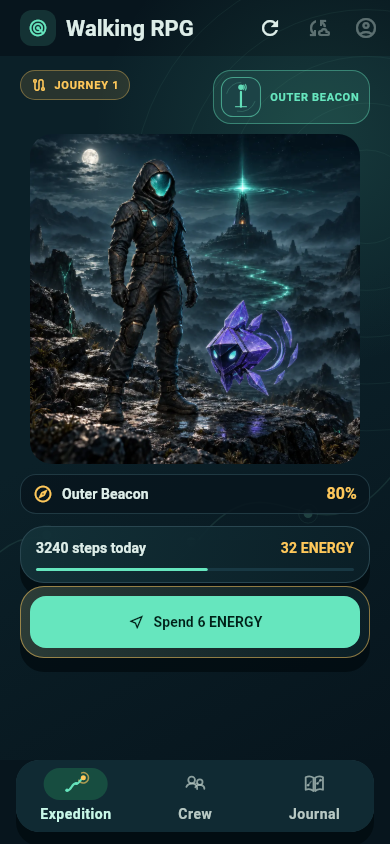
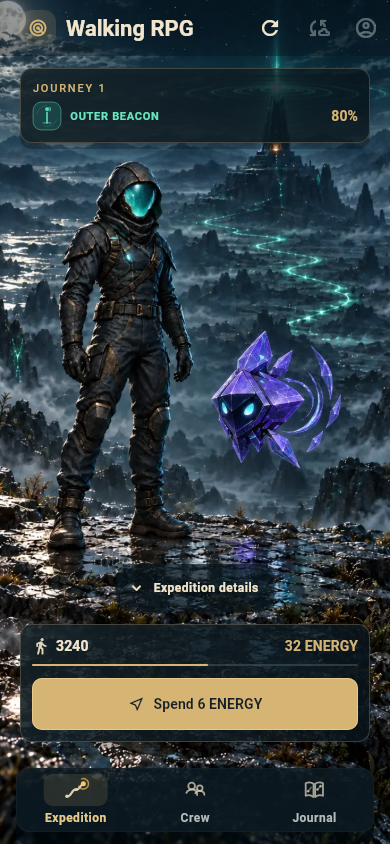
docs(design): record reviewed full-screen Home renders and finalize checks

diff --git a/mobile/lib/design_system/expedition_home_stage.dart b/mobile/lib/design_system/expedition_home_stage.dart
@@ -27,39 +27,24 @@ class ExpeditionHomeStage extends StatelessWidget {
   Widget build(BuildContext context) {
     return LayoutBuilder(
       builder: (BuildContext context, BoxConstraints viewport) => ClipRect(
-      key: const Key('home-expedition-visual-stage'),
-      child: CustomMultiChildLayout(
-        delegate: _HomeStageLayout(topInset, bottomInset),
-        children: <Widget>[
-          LayoutId(
-            id: _Layer.background,
-            child: Image.asset(
-              'assets/scenes/home_frontier_v3.webp',
-              key: const Key('home-fullscreen-background'),
-              fit: BoxFit.cover,
-              excludeFromSemantics: true,
+        key: const Key('home-expedition-visual-stage'),
+        child: CustomMultiChildLayout(
+          delegate: _HomeStageLayout(topInset, bottomInset),
+          children: <Widget>[
+            LayoutId(
+              id: _Layer.background,
+              child: Image.asset(
+                'assets/scenes/home_frontier_v3.webp',
+                key: const Key('home-fullscreen-background'),
+                fit: BoxFit.cover,
+                excludeFromSemantics: true,
+              ),
             ),
-          ),
-          LayoutId(
-            id: _Layer.scene,
-            child: ShaderMask(
-              blendMode: BlendMode.dstIn,
-              shaderCallback: (Rect bounds) => LinearGradient(
-                colors: const <Color>[
-                  Colors.transparent,
-                  Colors.white,
-                  Colors.white,
-                  Colors.transparent,
-                ],
-                stops: bounds.height < viewport.maxHeight
-                    ? const <double>[0, 0.24, 0.82, 1]
-                    : const <double>[0, 0.04, 0.96, 1],
-              ).createShader(bounds),
+            LayoutId(
+              id: _Layer.scene,
               child: ShaderMask(
                 blendMode: BlendMode.dstIn,
                 shaderCallback: (Rect bounds) => LinearGradient(
-                  begin: Alignment.topCenter,
-                  end: Alignment.bottomCenter,
                   colors: const <Color>[
                     Colors.transparent,
                     Colors.white,
@@ -67,18 +52,33 @@ class ExpeditionHomeStage extends StatelessWidget {
                     Colors.transparent,
                   ],
                   stops: bounds.height < viewport.maxHeight
-                      ? const <double>[0.10, 0.235, 0.71, 0.90]
-                      : const <double>[0, 0.035, 0.965, 1],
+                      ? const <double>[0, 0.24, 0.82, 1]
+                      : const <double>[0, 0.04, 0.96, 1],
                 ).createShader(bounds),
-                child: scene,
+                child: ShaderMask(
+                  blendMode: BlendMode.dstIn,
+                  shaderCallback: (Rect bounds) => LinearGradient(
+                    begin: Alignment.topCenter,
+                    end: Alignment.bottomCenter,
+                    colors: const <Color>[
+                      Colors.transparent,
+                      Colors.white,
+                      Colors.white,
+                      Colors.transparent,
+                    ],
+                    stops: bounds.height < viewport.maxHeight
+                        ? const <double>[0.10, 0.235, 0.71, 0.90]
+                        : const <double>[0, 0.035, 0.965, 1],
+                  ).createShader(bounds),
+                  child: scene,
+                ),
               ),
             ),
-          ),
-          LayoutId(id: _Layer.details, child: details),
-          LayoutId(id: _Layer.header, child: header),
-          LayoutId(id: _Layer.footer, child: footer),
-        ],
-      ),
+            LayoutId(id: _Layer.details, child: details),
+            LayoutId(id: _Layer.header, child: header),
+            LayoutId(id: _Layer.footer, child: footer),
+          ],
+        ),
       ),
     );
   }

diff --git a/mobile/test/home_scene_preview_test.dart b/mobile/test/home_scene_preview_test.dart
@@ -1,6 +1,5 @@
 // Render the real Home widget with synthetic accepted fixtures. These captures
 // support design review and are never physical-device evidence.
-import 'dart:convert';
 import 'dart:io';
 import 'dart:ui' as ui;
 
@@ -231,17 +230,6 @@ void main() {
         final File file = File('build/home-previews/${scenario.name}.png');
         await file.parent.create(recursive: true);
         await file.writeAsBytes(bytes.buffer.asUint8List());
-        if (const bool.fromEnvironment('HOME_SCENE_LOG_EXPORT')) {
-          final String encoded = base64Encode(bytes.buffer.asUint8List());
-          stdout.writeln('HOME_PREVIEW_BEGIN:${scenario.name}');
-          for (int start = 0; start < encoded.length; start += 800) {
-            final int end = (start + 800).clamp(0, encoded.length);
-            stdout.writeln(
-              'HOME_PREVIEW_DATA:${encoded.substring(start, end)}',
-            );
-          }
-          stdout.writeln('HOME_PREVIEW_END:${scenario.name}');
-        }
         image.dispose();
       });
       await tester.tap(find.byKey(const Key('home-open-details')));

diff --git a/mobile/lib/features/home/presentation/home_screen.dart b/mobile/lib/features/home/presentation/home_screen.dart
@@ -1644,9 +1644,16 @@ class _HomeActivityHud extends StatelessWidget {
               child: Row(
                 mainAxisSize: MainAxisSize.min,
                 children: <Widget>[
-                  const Icon(Icons.directions_walk_outlined, size: 18, color: Color(0xFFE0D5BB)),
+                  const Icon(
+                    Icons.directions_walk_outlined,
+                    size: 18,
+                    color: Color(0xFFE0D5BB),
+                  ),
                   const SizedBox(width: 6),
-                  Text('${snapshot.dailySteps}', style: Theme.of(context).textTheme.labelLarge),
+                  Text(
+                    '${snapshot.dailySteps}',
+                    style: Theme.of(context).textTheme.labelLarge,
+                  ),
                 ],
               ),
             ),

diff --git a/docs/visuals/home-crew/README.md b/docs/visuals/home-crew/README.md
@@ -1,11 +1,11 @@
-# Home cinematic scene review
+# Full-screen Home visual review
 
-Actual Flutter widget captures for the cinematic Home redesign in PR #576,
-rendered from commit `357f1e62fd94967965df36b6f10d129bf1ef60cd` with Flutter
-3.44.7. Fixtures contain synthetic steps, ENERGY and route progress, SDK
-Roboto/Material fonts, and no real account data.
+Actual Flutter widget captures for PR #576, rendered from commit
+`2425d7382244f16a09434737c1f8067bc2e83915` with Flutter 3.44.7.
+Fixtures contain synthetic steps, ENERGY and route progress, SDK Roboto/Material
+fonts, and no real account data.
 
-![Home with the pilot and Spark](home-dark-spark-ru.png)
+![Full-screen Home with the pilot and Spark](home-dark-spark-ru.png)
 
 | Preview | Locale / theme | Logical viewport | Text scale |
 | --- | --- | --- | --- |
@@ -14,22 +14,30 @@ Roboto/Material fonts, and no real account data.
 | [Pilot + Navigator](home-dark-rune-en.png) | EN / dark | 390 × 844 | 1.0 |
 | [Compact phone](home-narrow-large-ru.png) | RU / dark | 320 × 640 | 1.6 |
 | [Enlarged text](home-large-text-en.png) | EN / light | 500 × 800 | 2.0 |
+| [Safe-area insets](home-safe-insets-ru.png) | RU / dark; top 44, bottom 34 | 390 × 844 | 1.0 |
 | [Reduced motion](home-reduced-motion-ru.png) | RU / dark | 390 × 844 | 1.0 |
 
-The existing signal-source landscape anchors the new detailed, realistic crew
-art. Each companion has a coordinated scene with the same pilot and environment.
-The whole square remains visible; enlarged text on compact phones scales the
-scene down so the primary action cannot cover the crew. Detailed activity and
-crew panels remain below the first ordinary-phone viewport.
+The detailed frontier now fills the entire screen, including the toolbar and
+navigation. Portrait crew compositions place the pilot and accepted companion
+between a compact route HUD and a smoked-glass action panel. Brass outlines,
+cream labels and an amber primary action match the environment. The compact
+step counter keeps enlarged text from consuming a second row.
 
-This revision uses still artwork with identical reduced-motion behavior.
-Natural character animation needs a separate high-resolution production pass.
-The mobile suite passed 683 tests, including accepted-identity changes,
-unknown-ID and legacy fallbacks and the existing authoritative commands.
-All six captures check that the scene stays above the primary action and both
-actors stay within the composition. Reproduce these images with the command in
-[the design system](../../DESIGN_SYSTEM.md#home-crew-scene). Artwork references
-and generation prompts are in [the asset directory](../../../mobile/assets/scenes/README.md).
+The layout measures both HUD groups before fitting the crew. Captures check
+edge-to-edge background coverage, toolbar and navigation clearance, all actor
+bounds, and the detail-scroll affordance. They also open details and verify
+that their scroll viewport stays between the HUD groups. Foreground scenery
+blends into the empty frontier when a short screen requires a smaller cast.
 
-These are widget renders, not physical-device or product-owner acceptance.
-TASK-011 / issue #156 still owns that decision.
+The source passed Flutter analysis, all 683 mobile tests and seven explicit
+capture cases. Coverage includes exact accepted IDs, neutral fallbacks,
+authoritative command guards and impression visibility. Event images keep
+independent accessibility descriptions in the clipped detail viewport.
+Reduced-motion and ordinary still-scene captures are byte-identical.
+
+Reproduce with the command in [the design system](../../DESIGN_SYSTEM.md#home-crew-scene).
+Artwork references and full prompts are in [the asset directory](../../../mobile/assets/scenes/README.md).
+
+These are synthetic widget renders for design review. Physical-device and
+owner acceptance remain under TASK-011 / issue #156. Character animation needs
+a separate detailed asset pass.
